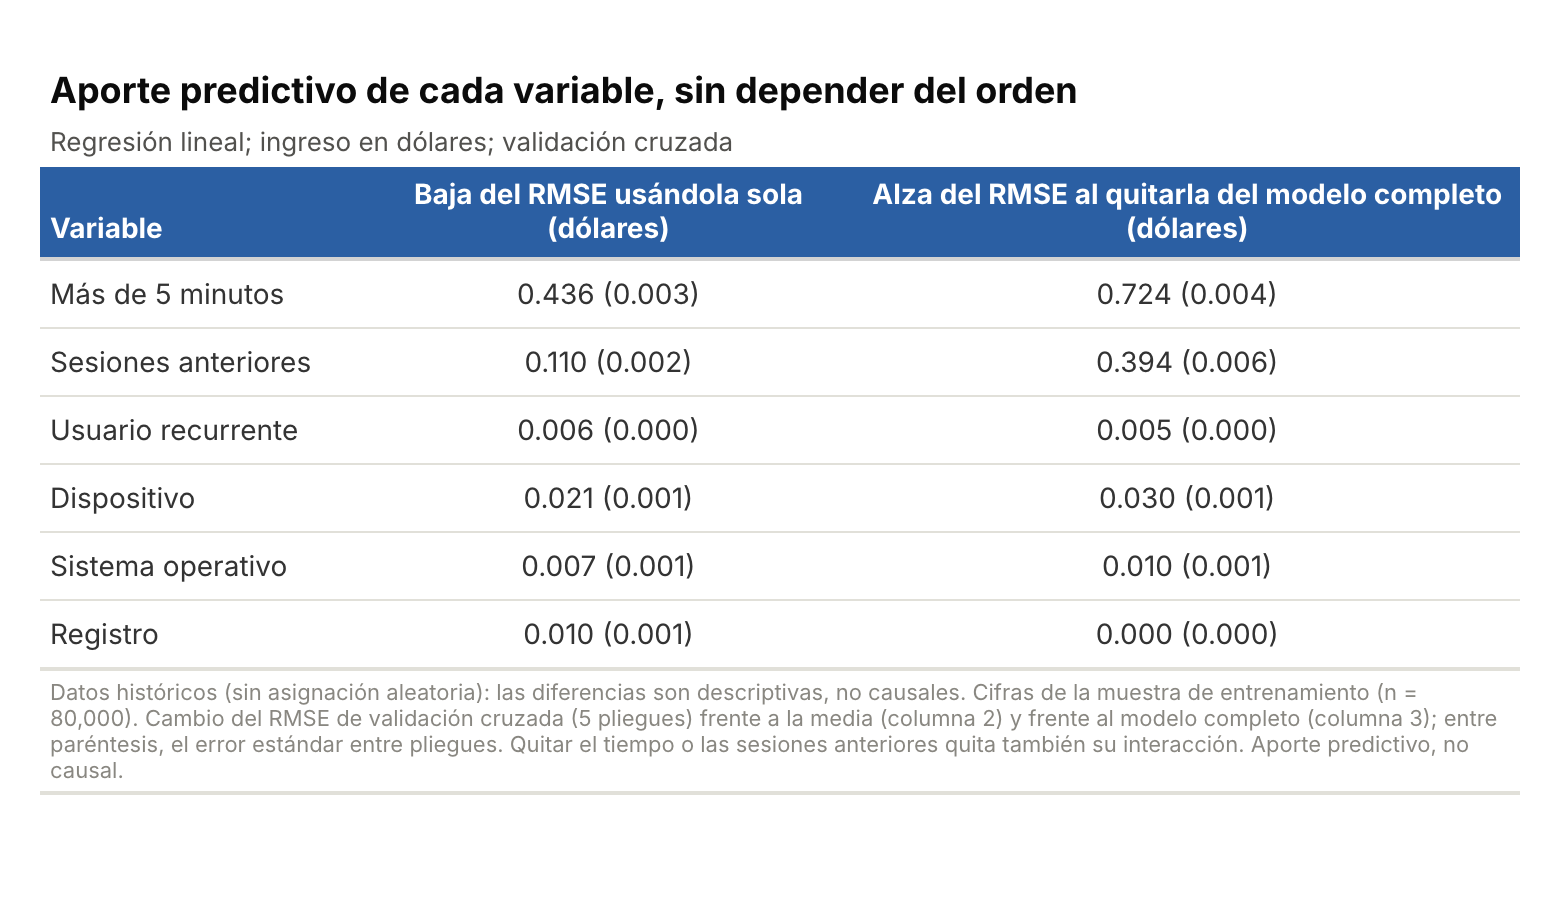
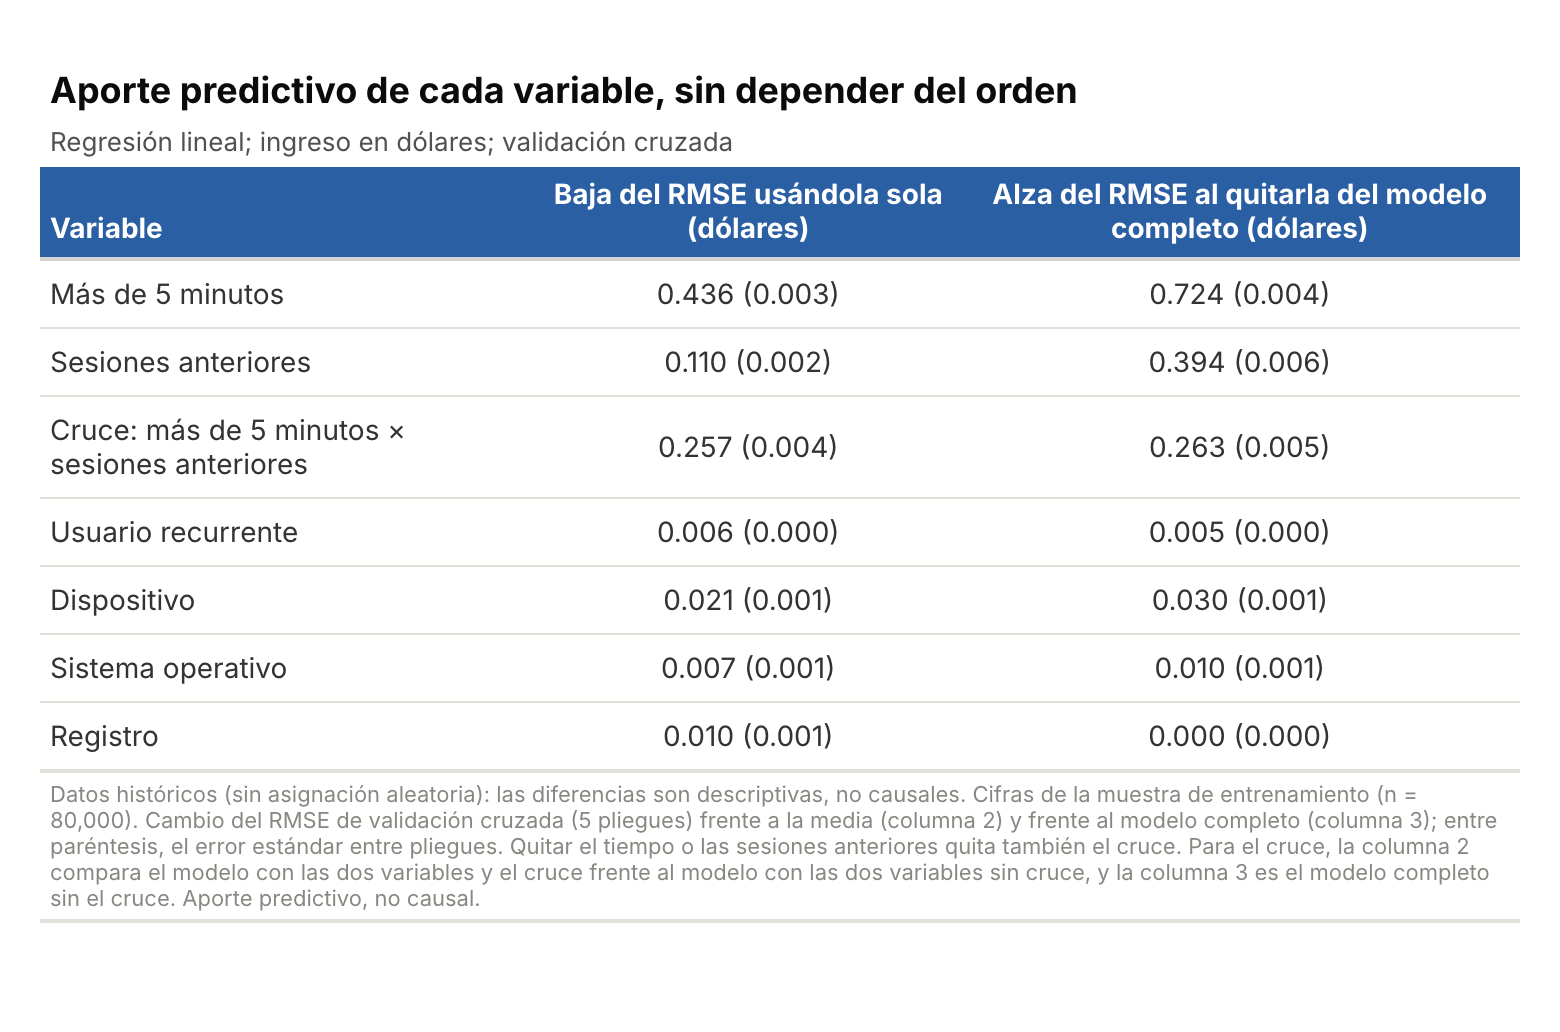
Agregar la fila del cruce a la tabla de aporte predictivo de cada variable

Changed region(s): [[0.0, 0.0621, 0.9846, 0.9002]]

diff --git a/05_Notas/04_prediccion_lineal_observacional/A_escalera_importancia_lineal.md b/05_Notas/04_prediccion_lineal_observacional/A_escalera_importancia_lineal.md
@@ -33,6 +33,10 @@
   sesiones 0.394 (ambas incluyen el cruce), dispositivo 0.030, sistema operativo 0.011, usuario
   recurrente 0.005, registro 0.000 (dólares; errores estándar entre pliegues de
   0.0001 a 0.006).
+- El cruce aislado (fila propia de `observacional_importancia_variables.png`):
+  agregarlo al modelo que ya tiene las dos variables baja el RMSE 0.257 dólares
+  (error estándar 0.004), y quitarlo del modelo completo lo sube 0.263 (0.005).
+  Coincide con la caída del paso 6 de la escalera (0.263).
 - Prueba (dólares): ingenuo 2.716; lineal del Taller 1 2.314 (mejora 14.8 %);
   lineal con quiebre, cruce y registro 1.845 (mejora 32.1 %; elimina 53.9 % del
   error cuadrático del ingenuo; RMSE = 46.4 % de la media de 3.98). Brecha prueba
@@ -88,6 +92,7 @@ sobre el efecto causal de impulsarlo (eso lo da el experimento).
   de la variabilidad.
 
 ## Historial
+- 2026-10-24: se agrega la fila del cruce a la tabla de aporte de cada variable.
 - 2026-10-24: el tiempo continuo sale de la escalera (queda el indicador de más de
   5 minutos) por ser redundante con él; cifras de la escalera actualizadas; el
   RMSE de prueba no cambia (1.845). Los scripts 04 y 05 intercambiaron número
